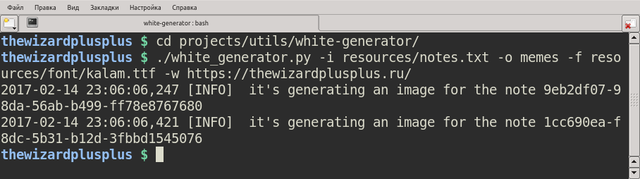
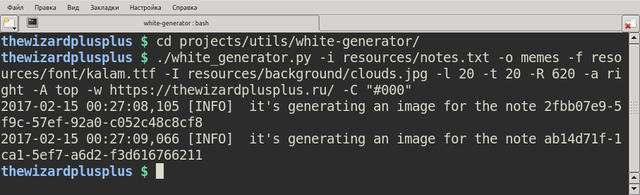
Update the readme

Changed region(s): [[0.0, 0.0279, 1.0, 0.9218], [0.9688, 0.8659, 1.0, 0.9777]]

diff --git a/readme.md b/readme.md
@@ -4,7 +4,10 @@ Utility for a generation of memes.
 
 ## Features
 
-* a generation of memes (in PNG format) with a plain background and a centric text;
+* a generation of memes (in PNG format);
+* a support of plain and graphic backgrounds;
+* a specification of a text rectangle;
+* a support of horizontal and vertical text alignments;
 * a read of memes texts from a file (each text is separated from another by a double newline);
 * a support single-line and multiline memes texts;
 * a protection against duplicate memes texts;
@@ -14,10 +17,17 @@ Utility for a generation of memes.
         * color;
         * width;
         * height;
+        * image (it supports same formats as [Pillow](http://python-pillow.org/) library);
     * text:
         * font (it supports only TrueType fonts);
         * size;
         * color;
+        * left;
+        * rigth;
+        * top;
+        * bottom;
+        * horizontal alignment;
+        * vertical alignment;
     * watermark:
         * font (it always uses the text font);
         * text;
@@ -38,9 +48,16 @@ Options:
 * `-h`, `--help` &mdash; show this help message and exit;
 * `-i INPUT_FILE`, ` --input-file INPUT_FILE` &mdash; the path to the file with notes;
 * `-o OUTPUT_PATH`, ` --output-path OUTPUT_PATH` &mdash; the path for generated images;
+* `-l TEXT_LEFT`, ` --text-left TEXT_LEFT` &mdash; the left text position (default: 0);
+* `-t TEXT_TOP`, ` --text-top TEXT_TOP` &mdash; the top text position (default: 0);
+* `-R TEXT_RIGHT`, ` --text-right TEXT_RIGHT` &mdash; the horizontal text limit (-1 for a background width use; default: -1);
+* `-B TEXT_BOTTOM`, ` --text-bottom TEXT_BOTTOM` &mdash; the vertical text limit (-1 for a background height use; default: -1);
+* `-a {left,center,right}`, ` --text-horizontal-align {left,center,right}` &mdash; the text horizontal alignment (default: `center`);
+* `-A {top,center,bottom}`, ` --text-vertical-align {top,center,bottom}` &mdash; the text vertical alignment (default: `center`);
 * `-W IMAGE_WIDTH`, ` --image-width IMAGE_WIDTH` &mdash; the image width (default: 640);
 * `-H IMAGE_HEIGHT`, ` --image-height IMAGE_HEIGHT` &mdash; the image height (default: 480);
 * `-b IMAGE_BACKGROUND_COLOR`, ` --image-background-color IMAGE_BACKGROUND_COLOR` &mdash; the image background color (default: `#ffffff`);
+* `-I IMAGE_BACKGROUND_IMAGE`, ` --image-background-image IMAGE_BACKGROUND_IMAGE` &mdash; the path to the background image (default: none);
 * `-f FONT_FILE`, ` --font-file FONT_FILE` &mdash; the path to the font file;
 * `-s FONT_SIZE`, ` --font-size FONT_SIZE` &mdash; the font size (default: 25);
 * `-c FONT_COLOR`, ` --font-color FONT_COLOR` &mdash; the font color (default: `#000000`);
